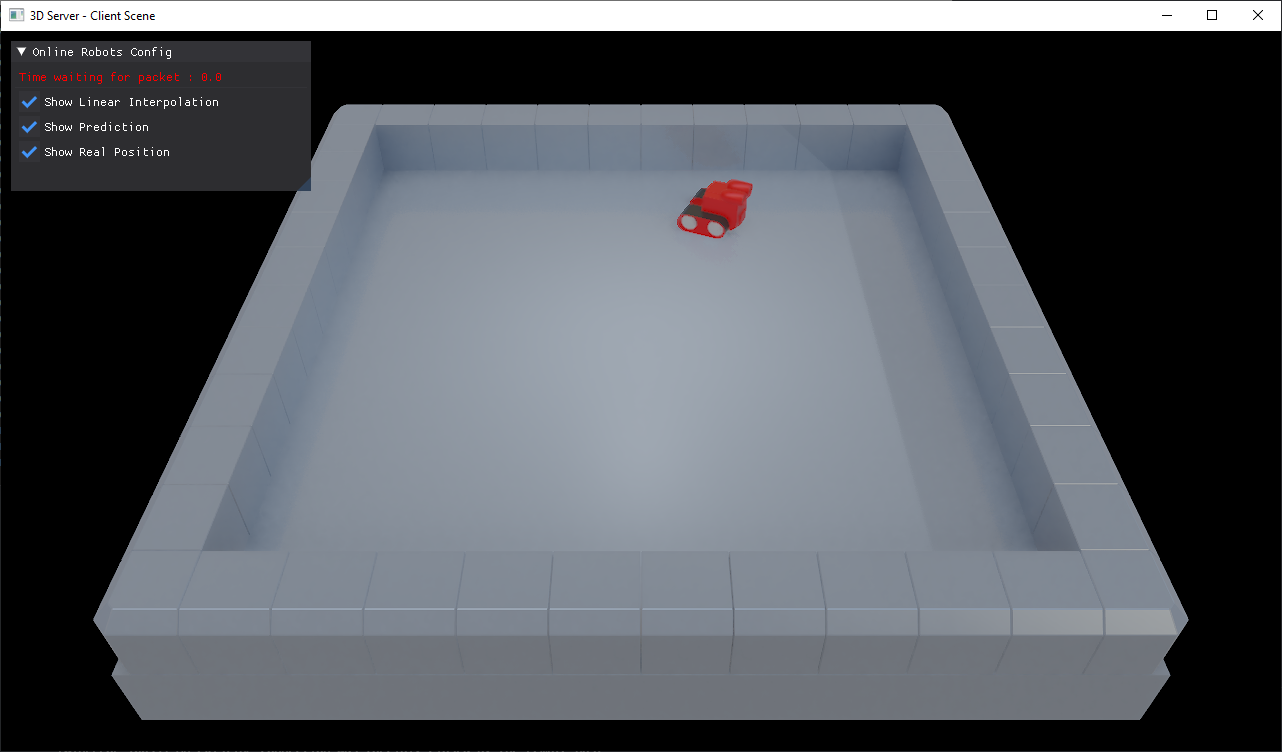
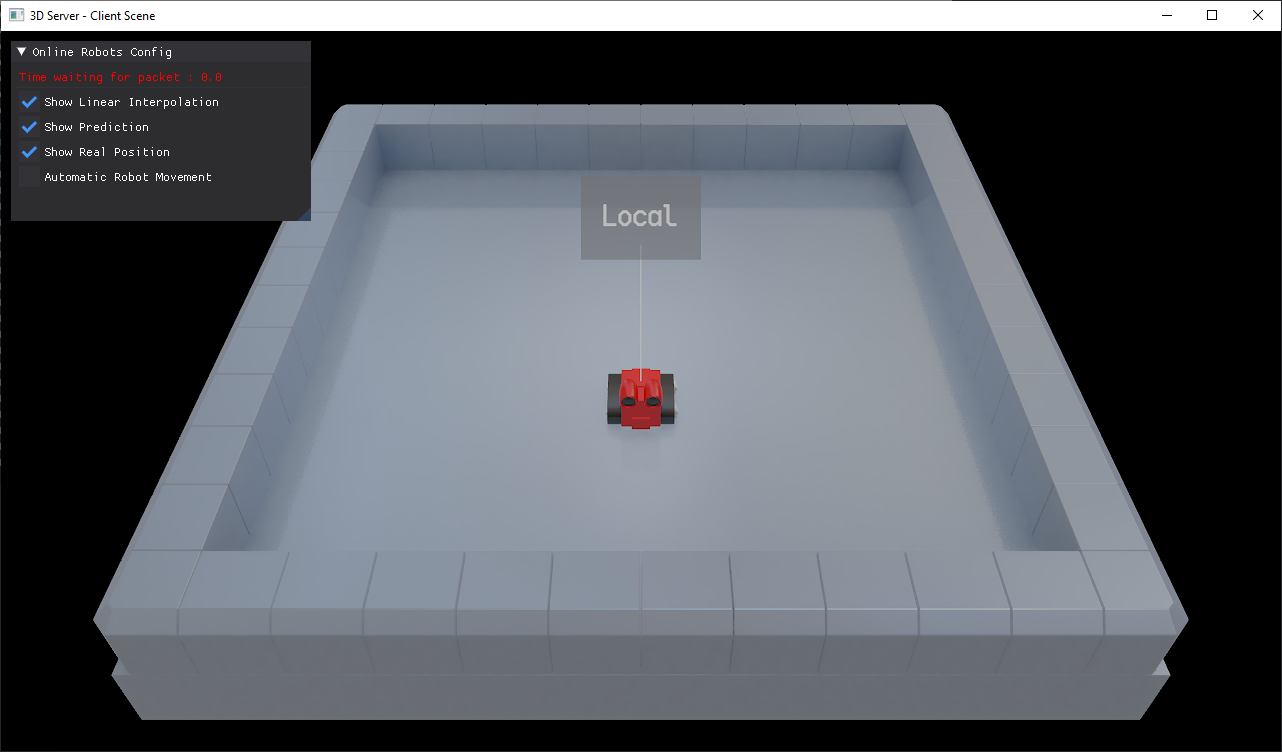
Added auto movement checkbox, new screenshots and better Readme

Changed region(s): [[0.4368, 0.1835, 0.5928, 0.367], [0.0, 0.2141, 0.2496, 0.3059], [0.468, 0.4894, 0.5304, 0.5811]]

diff --git a/main.py b/main.py
@@ -8,7 +8,7 @@ from statistics import median_low, median_high
 from name_tag import draw_name_tag
 
 # Init socket and server-linked variables
-UDP_IP = "192.168.0.175"
+UDP_IP = "127.0.0.1"
 UDP_PORT = 5005
 
 sock = socket.socket(socket.AF_INET,
@@ -92,6 +92,7 @@ frame = 0
 show_lerp = True
 show_pred = True
 show_real = True
+auto_move = False
 vid_scene_opaque = 0
 vtx_2 = hg.Vertices(vtx_layout, 2)
 vtx_4 = hg.Vertices(vtx_layout, 4)
@@ -184,11 +185,11 @@ while not hg.ReadKeyboard().Key(hg.K_Escape) and hg.IsWindowOpen(win):
 
 	simulated_pos_forward = pos + front * (hg.time_to_sec_f(dt) * 10)
 	simulated_pos_backward = pos - front * (hg.time_to_sec_f(dt) * 10)
-	if True and simulated_pos_forward.x < max_x and simulated_pos_forward.x > min_x and simulated_pos_forward.z < max_z and simulated_pos_forward.z > min_z:
+	if (keyboard.Down(hg.K_Up) or auto_move) and simulated_pos_forward.x < max_x and simulated_pos_forward.x > min_x and simulated_pos_forward.z < max_z and simulated_pos_forward.z > min_z:
 		trs.SetPos(pos + front * (hg.time_to_sec_f(dt) * 10))
 	if keyboard.Down(hg.K_Down) and simulated_pos_backward.x < max_x and simulated_pos_backward.x > min_x and simulated_pos_backward.z < max_z and simulated_pos_backward.z > min_z:
 		trs.SetPos(pos - front * (hg.time_to_sec_f(dt) * 10))
-	if True:
+	if keyboard.Down(hg.K_Right) or auto_move:
 		trs.SetRot(hg.Vec3(rot.x, rot.y + (hg.time_to_sec_f(dt)), rot.z))
 	if keyboard.Down(hg.K_Left):
 		trs.SetRot(hg.Vec3(rot.x, rot.y - (hg.time_to_sec_f(dt)), rot.z))
@@ -204,7 +205,7 @@ while not hg.ReadKeyboard().Key(hg.K_Escape) and hg.IsWindowOpen(win):
 	hg.SetView2D(0, 0, 0, res_x, res_y, -1, 0, hg.CF_Color | hg.CF_Depth, hg.Color.Green, 1, 0)
 
 	hg.ImGuiSetNextWindowPos(hg.Vec2(10, 10))
-	hg.ImGuiSetNextWindowSize(hg.Vec2(300, 150), hg.ImGuiCond_Once)
+	hg.ImGuiSetNextWindowSize(hg.Vec2(300, 180), hg.ImGuiCond_Once)
 
 	if hg.ImGuiBegin('Online Robots Config'):
 		hg.ImGuiTextColored(hg.Color.Red, "Time waiting for packet : " + str(hg.time_to_sec_f(time_awaiting_packet)))
@@ -212,6 +213,7 @@ while not hg.ReadKeyboard().Key(hg.K_Escape) and hg.IsWindowOpen(win):
 		was_changed_lerp, show_lerp = hg.ImGuiCheckbox('Show Linear Interpolation', show_lerp)
 		was_changed_pred, show_pred = hg.ImGuiCheckbox('Show Prediction', show_pred)
 		was_changed_real, show_real = hg.ImGuiCheckbox('Show Real Position', show_real)
+		was_changed_move, auto_move = hg.ImGuiCheckbox('Automatic Robot Movement', auto_move)
 
 	hg.ImGuiEnd()
 

diff --git a/README.md b/README.md
@@ -14,14 +14,22 @@ To run the prototype:
 
 After the compilation process finishes, you will see a `server_client_demo_compiled` folder next to resources ( `server_client_demo` ) folder.
 
-You can now execute the prototype from the folder you unzipped it to.
+You can now execute the server from the folder you unzipped it to.
+
+```bash
+C:/server_client_3D>python server.py
+```
+
+You can then execute as many clients as you'd like with the following command (you will get limited by packet size at some point which is a problem I need to fix).
 
 ```bash
 C:/server_client_3D>python main.py
 ```
 
+Make sure to reference the correct IP and have your ports open on local AND online networks.
+
 ## Screenshots
-* Player alone
+* Player alone with the latest update (name tag)
 ![Player alone](screenshots/0.png)
 
 * With a second player, showing his prediction and interpolation
@@ -35,3 +43,6 @@ C:/server_client_3D>python main.py
 
 * With a third player
 ![3 Players](screenshots/4.png)
+
+* With a third player (+ name tags that are a little bit blurred since the robots are moving)
+![3 Players](screenshots/5.png)
